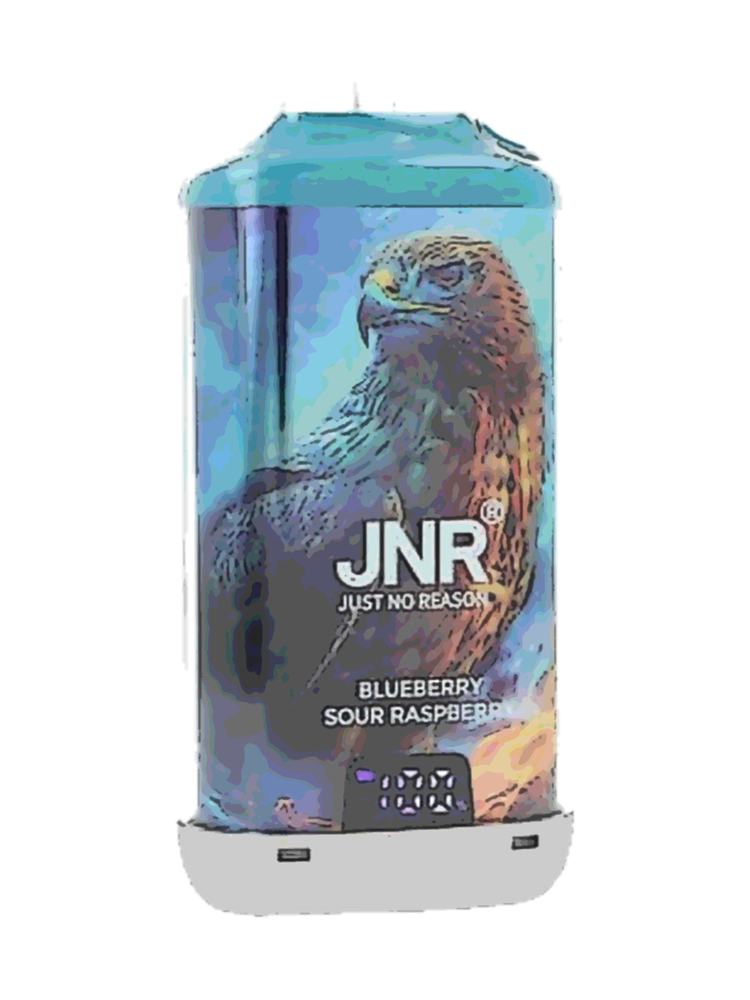
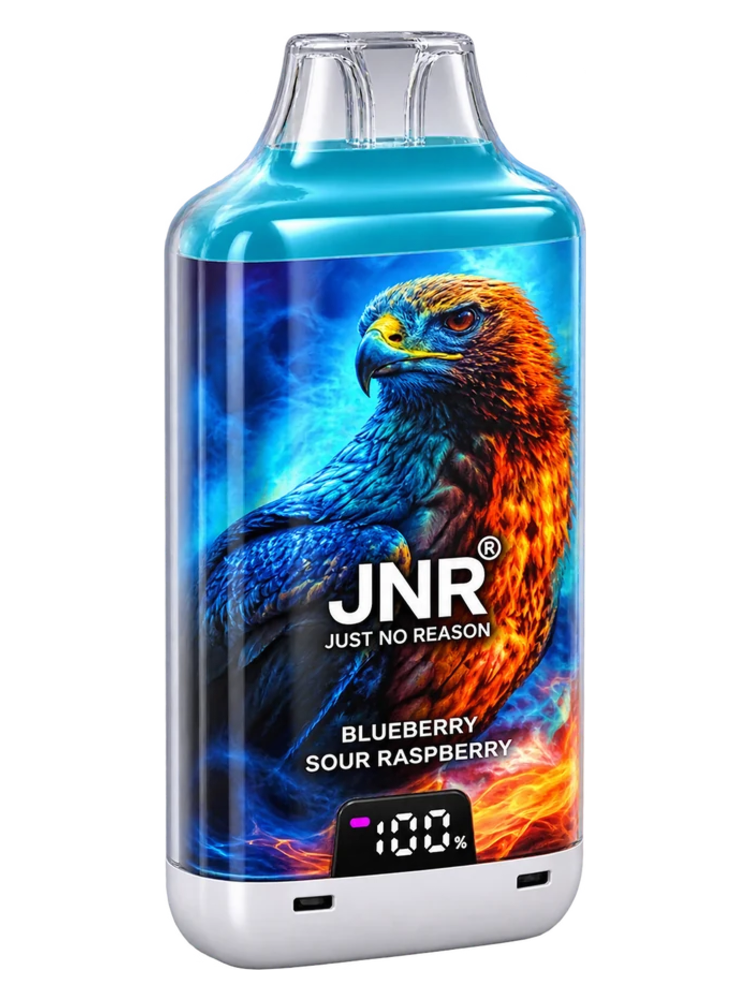
image p news

diff --git a/js/main.js b/js/main.js
@@ -12,14 +12,14 @@ const RAW=[
 "Blueberry Pomegranate Ice|#20bde9|#395def|Myrtille, grenade et fraîcheur glacée.",
 "Mango Passion Fruit|#20e9b7|#39b2ef|Mangue ensoleillée et fruit de la passion.",
 "Watermelon Mango Peach|#e92420|#efa639|Trio gourmand de pastèque, mangue et pêche.",
-"Blueberry Raspberry Cherry|#20bae9|#395aef|Myrtille, framboise et cerise : le trio des baies.",
+"Blueberry Raspberry Cherry|#20c1e9|#394eef|Myrtille, framboise et cerise : le trio des baies.",
 "Cherry Ice|#20d8e9|#3976ef|Cerise éclatante sur fond de fraîcheur glacée.",
-"Watermelon Ice|#e92020|#efa339|Pastèque désaltérante et sensation glacée.",
-"Watermelon Bubblegum|#e92420|#efa639|Pastèque sucrée aux notes de chewing-gum.",
-"Cherry Watermelon Freeze|#e98820|#ef3942|Cerise et pastèque en version très fraîche.",
-"Blueberry Sour Raspberry|#20b7e9|#3957ef|Myrtille et framboise avec un côté acidulé.",
+"Watermelon Ice|#e92420|#efa639|Pastèque désaltérante et sensation glacée.",
+"Watermelon Bubblegum|#e92720|#efa939|Pastèque sucrée aux notes de chewing-gum.",
+"Cherry Watermelon Freeze|#e92a20|#3969ef|Cerise et pastèque en version très fraîche.",
+"Blueberry Sour Raspberry|#20bde9|#ef6339|Myrtille et framboise avec un côté acidulé.",
 "Fizzy Cherry Cola|#e97420|#efef39|Cerise pétillante façon cola.",
-"Luv 66|#20e9b3|#39ef45|Un mélange mystère à l'identité bien à lui."];
+"Luv 66|#20e9ce|#ef6339|Un mélange mystère à l'identité bien à lui."];
 const slug=n=>n.toLowerCase().replace(/[^a-z0-9]+/g,'-').replace(/^-|-$/g,'');
 const esc=s=>String(s).replace(/[&<>"']/g,c=>({'&':'&amp;','<':'&lt;','>':'&gt;','"':'&quot;',"'":'&#39;'}[c]));
 const store={get(k,d){try{const v=JSON.parse(localStorage.getItem(k));return v===null?d:v}catch(e){return d}},set(k,v){try{localStorage.setItem(k,JSON.stringify(v));return true}catch(e){return false}}};
@@ -30,7 +30,7 @@ const saveCatalog=c=>store.set('jnr_catalog',c);
 const PHOTOS=new Set(['strawberry-kiwi','mixed-berry','strawberry-watermelon','peach-berry','dragon-ice','blackberry-red-raspberry','blueberry-pomegranate-ice','mango-passion-fruit','watermelon-mango-peach','blueberry-raspberry-cherry','cherry-ice','watermelon-ice','watermelon-bubblegum','cherry-watermelon-freeze','blueberry-sour-raspberry','fizzy-cherry-cola','luv-66']);
 const isPhoto=p=>!p.img&&PHOTOS.has(p.id);
 /* IMG_V : augmentez ce numéro à chaque remplacement d'image pour forcer les navigateurs à recharger */
-const IMG_V=3;
+const IMG_V=4;
 const imgOf=p=>p.img||`images/produits/${p.id}.${PHOTOS.has(p.id)?'png':'svg'}?v=${IMG_V}`;
 const imgCls=p=>isPhoto(p)?' class="photo"':'';
 /* Chaque puff est vendue avec 2 recharges du même goût, ajoutées automatiquement */
